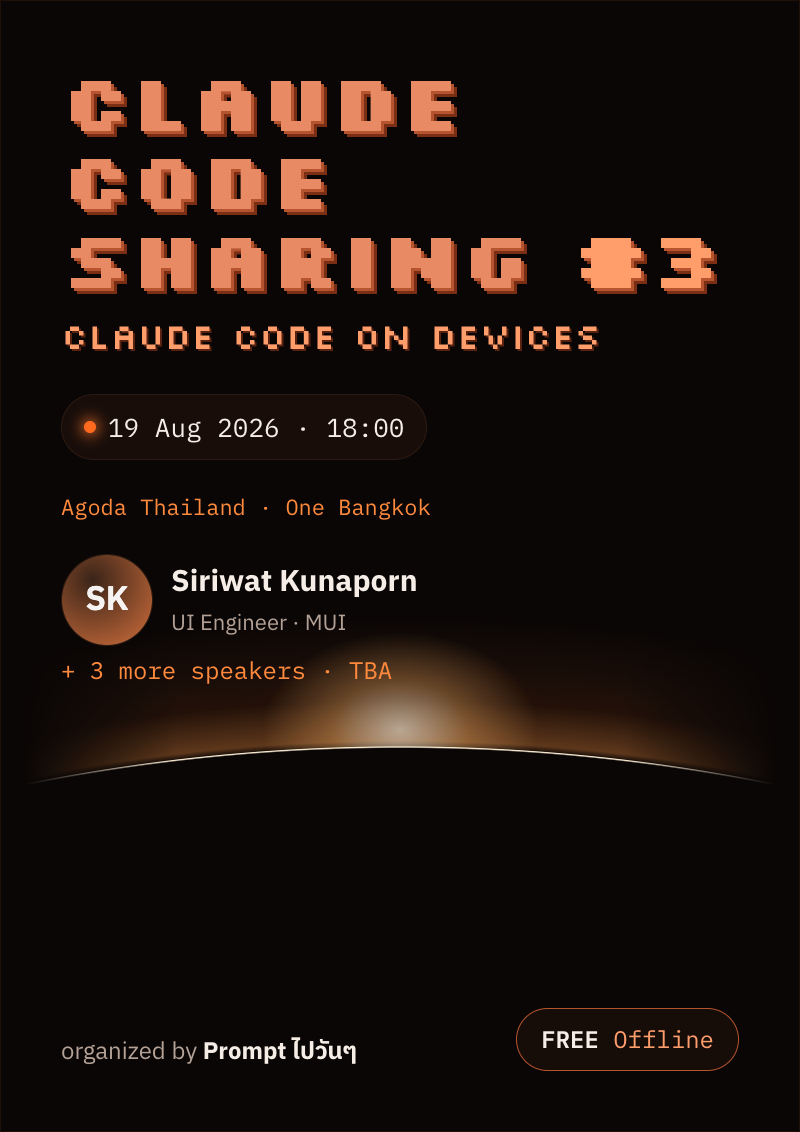
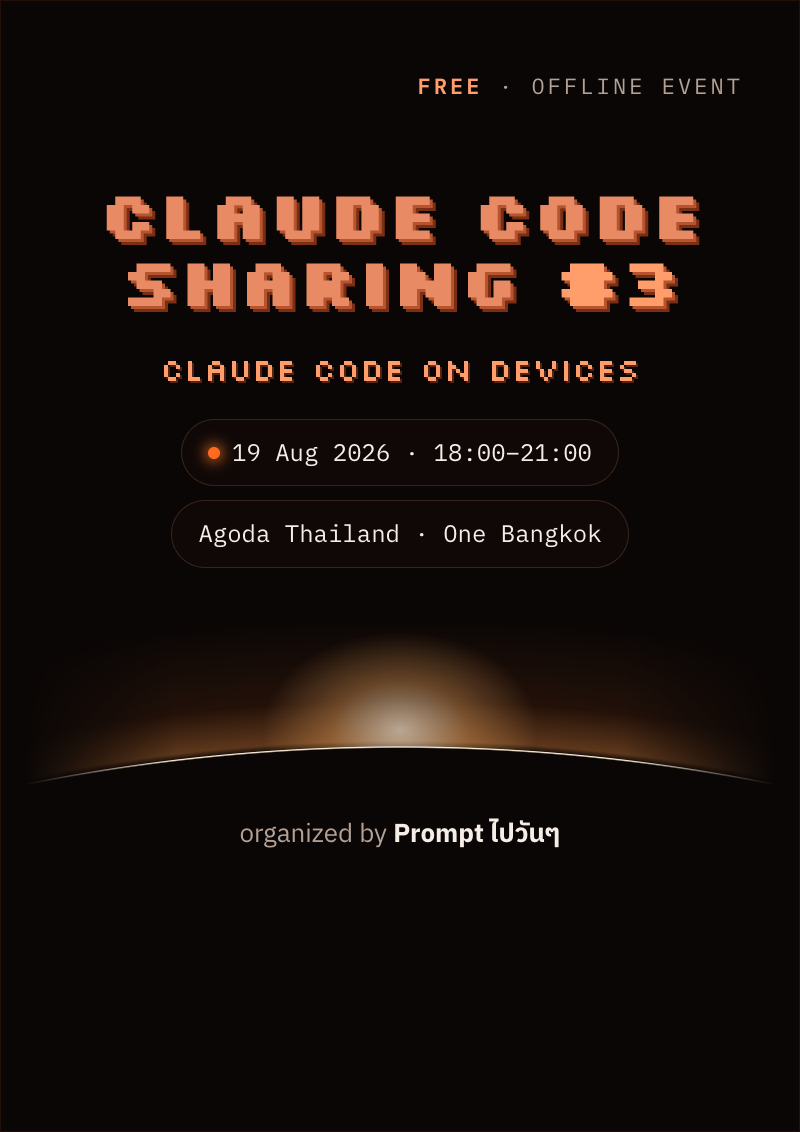
Posters mirror hero: centered layout, 2-line title, blurred chips, FREE top-right, organizer below curve; remove speakers

diff --git a/meetups/claude-code-3/styles.css b/meetups/claude-code-3/styles.css
@@ -118,52 +118,29 @@ a{color:inherit;text-decoration:none}
 .poster .stagelight,.poster .light{-webkit-mask-image:linear-gradient(90deg,transparent 3%,#000 22%,#000 78%,transparent 97%);mask-image:linear-gradient(90deg,transparent 3%,#000 22%,#000 78%,transparent 97%)}
 .poster .stagelight{position:absolute;inset:0;pointer-events:none;background:radial-gradient(var(--orbit-r) var(--orbit-r) at 50% calc(var(--line-y) + var(--orbit-r)),var(--void) calc(var(--orbit-r) - .5px),transparent var(--orbit-r)),radial-gradient(ellipse 24% 12% at 50% calc(var(--line-y) - 1.5%),rgba(255,246,228,.60),rgba(255,182,104,.32) 36%,transparent 72%),radial-gradient(var(--orbit-r) var(--orbit-r) at 50% calc(var(--line-y) + var(--orbit-r)),transparent calc(var(--orbit-r) - 1px),rgba(255,150,70,.34) calc(var(--orbit-r) + 6px),rgba(255,116,42,.10) calc(var(--orbit-r) + 46px),transparent calc(var(--orbit-r) + 130px))}
 .poster .light{position:absolute;inset:0;background:radial-gradient(var(--orbit-r) var(--orbit-r) at 50% calc(var(--line-y) + var(--orbit-r)),transparent calc(var(--orbit-r) - 1.6px),rgba(255,240,216,.95) calc(var(--orbit-r) - .3px),rgba(255,240,216,.95) var(--orbit-r),transparent calc(var(--orbit-r) + .9px))}
-.poster .pcontent{position:relative;z-index:2;height:100%;display:flex;flex-direction:column;padding:56px}
-.pk-eyebrow{font-family:"IBM Plex Mono",monospace;letter-spacing:.28em;font-size:19px;color:var(--coral)}
+.poster .pcontent{position:relative;z-index:2;height:100%}
+.pk-free{position:absolute;top:6%;right:7%;font-family:"IBM Plex Mono",monospace;letter-spacing:.14em;text-transform:uppercase;color:var(--ash)}
+.pk-free b{color:var(--flame);font-weight:600}
+.pk-top{position:absolute;left:0;right:0;top:0;height:var(--line-y);display:flex;flex-direction:column;align-items:center;justify-content:center;gap:26px;padding:0 6%;text-align:center}
+.pk-below{position:absolute;left:0;right:0;top:calc(var(--line-y) + 6%);text-align:center;color:var(--ash);font-family:"IBM Plex Sans Thai",sans-serif}
+.pk-below b{color:var(--bone)}
 .pk-title{font-family:"Silkscreen",monospace;font-weight:700;color:var(--coral);line-height:.98;white-space:nowrap;text-shadow:3px 3px 0 var(--coral-deep),6px 6px 0 var(--coral-shadow)}
 .pk-title .hash{color:var(--flame)}
 .pk-tag{font-family:"Silkscreen",monospace;color:var(--flame);text-shadow:2px 2px 0 rgba(122,46,20,.7)}
-.pk-date{font-family:"IBM Plex Mono",monospace;color:var(--bone);border:1px solid var(--line);background:rgba(30,16,10,.7);padding:12px 22px;border-radius:999px;display:inline-flex;align-items:center;gap:12px;width:max-content}
-.pk-date .dot{width:12px;height:12px;border-radius:50%;background:var(--glow);box-shadow:0 0 14px 3px rgba(255,120,45,.8)}
-.pk-spk{display:flex;align-items:center;gap:18px}
-.pk-av{border-radius:50%;flex:0 0 auto;border:1px solid var(--line)}
-.pk-name{font-weight:700;color:var(--bone)}
-.pk-role{color:var(--ash)}
-.pk-more{font-family:"IBM Plex Mono",monospace;color:var(--glow-soft)}
-.pk-badge{font-family:"IBM Plex Mono",monospace;color:var(--flame);border:1px solid var(--coral-deep);background:rgba(30,16,10,.6);padding:12px 24px;border-radius:999px;width:max-content}
-.pk-badge b{color:var(--bone)}
-.pk-orga{color:var(--ash)}.pk-orga b{color:var(--bone)}
-.pk-venue{font-family:"IBM Plex Mono",monospace;color:var(--glow-soft)}
-
-/* PORTRAIT mode */
-.poster[data-mode="portrait"] .pcontent{gap:30px;padding:60px}
-.poster[data-mode="portrait"] .pk-title{font-size:80px}
-.poster[data-mode="portrait"] .pk-tag{font-size:36px;margin-top:12px}
-.poster[data-mode="portrait"] .pk-date{font-size:26px}
-.poster[data-mode="portrait"] .pk-venue{font-size:22px}
-.poster[data-mode="portrait"] .pk-av{width:92px;height:92px}
-.poster[data-mode="portrait"] .pk-name{font-size:30px}
-.poster[data-mode="portrait"] .pk-role{font-size:22px}
-.poster[data-mode="portrait"] .pk-more{font-size:24px;margin-top:6px}
-.poster[data-mode="portrait"] .pk-foot{margin-top:auto;display:flex;justify-content:space-between;align-items:flex-end;gap:20px}
-.poster[data-mode="portrait"] .pk-orga{font-size:24px}
-.poster[data-mode="portrait"] .pk-badge{font-size:24px}
-
-/* LANDSCAPE mode */
-.poster[data-mode="landscape"] .pcontent{display:grid;grid-template-columns:1.08fr .92fr;gap:44px;padding:52px 60px;align-content:center}
-.poster[data-mode="landscape"] .col{display:flex;flex-direction:column;gap:20px;justify-content:center}
-.poster[data-mode="landscape"] .pk-title{font-size:56px}
-.poster[data-mode="landscape"] .pk-tag{font-size:28px;margin-top:8px}
-.poster[data-mode="landscape"] .pk-date{font-size:22px}
-.poster[data-mode="landscape"] .pk-venue{font-size:19px}
-.poster[data-mode="landscape"] .pk-av{width:64px;height:64px}
-.poster[data-mode="landscape"] .pk-name{font-size:24px}
-.poster[data-mode="landscape"] .pk-role{font-size:18px}
-.poster[data-mode="landscape"] .pk-more{font-size:20px}
-.poster[data-mode="landscape"] .pk-badge{font-size:19px}
-.poster[data-mode="landscape"] .pk-orga{font-size:19px}
+.pk-chips{display:flex;flex-wrap:wrap;gap:14px;justify-content:center}
+.pk-chip{display:inline-flex;align-items:center;gap:12px;font-family:"IBM Plex Mono",monospace;color:var(--bone);background:rgba(22,13,8,.42);border:1px solid rgba(255,180,120,.16);border-radius:999px;backdrop-filter:blur(10px);-webkit-backdrop-filter:blur(10px)}
+.pk-chip .dot{width:12px;height:12px;border-radius:50%;background:var(--glow);box-shadow:0 0 14px 3px rgba(255,120,45,.8)}
+.poster[data-mode="portrait"] .pk-free{font-size:22px}
+.poster[data-mode="portrait"] .pk-title{font-size:68px}
+.poster[data-mode="portrait"] .pk-tag{font-size:32px;margin-top:4px}
+.poster[data-mode="portrait"] .pk-chip{font-size:24px;padding:14px 26px}
+.poster[data-mode="portrait"] .pk-below{font-size:26px}
 .poster[data-mode="landscape"]{--line-y:80%}
-.poster[data-mode="landscape"] .pk-speakers{display:flex;flex-direction:column;gap:16px}
+.poster[data-mode="landscape"] .pk-free{font-size:19px}
+.poster[data-mode="landscape"] .pk-title{font-size:62px}
+.poster[data-mode="landscape"] .pk-tag{font-size:28px;margin-top:4px}
+.poster[data-mode="landscape"] .pk-chip{font-size:20px;padding:11px 20px}
+.poster[data-mode="landscape"] .pk-below{font-size:22px}
 
 /* footer */
 .site-foot{position:relative;overflow:hidden;border-top:1px solid var(--line);padding:clamp(3rem,7vw,4.5rem) var(--pad) 3rem;text-align:center}

diff --git a/meetups/claude-code-3/index.html b/meetups/claude-code-3/index.html
@@ -160,29 +160,18 @@
 <script>
 /* poster preview + size switch. Capture (PNG) is generated author-time; this is the on-page UI. */
 (function(){
-  var AV_P='width:92px;height:92px', AV_L='width:64px;height:64px';
-  function speakers(mode){
-    return '<div class="pk-speakers"><div class="pk-spk"><img class="pk-av" style="'+(mode==="portrait"?AV_P:AV_L)+'" src="assets/speakers/siriwat.svg" alt=""/>'
-      +'<div><div class="pk-name">Siriwat Kunaporn</div><div class="pk-role">UI Engineer · MUI</div></div></div>'
-      +'<div class="pk-more">+ 3 more speakers · TBA</div></div>';
-  }
-  var PORTRAIT=function(){return ''
-    +''
-    +'<div><div class="pk-title">CLAUDE<br>CODE<br>SHARING <span class="hash">#3</span></div><div class="pk-tag">Claude Code on Devices</div></div>'
-    +'<div class="pk-date"><span class="dot"></span>19 Aug 2026 · 18:00</div>'
-    +'<div class="pk-venue">Agoda Thailand · One Bangkok</div>'
-    +speakers("portrait")
-    +'<div class="pk-foot"><div class="pk-orga">organized by <b>Prompt ไปวันๆ</b></div><div class="pk-badge"><b>FREE</b> Offline</div></div>';};
-  var LANDSCAPE=function(){return ''
-    +'<div class="col">'
-      +''
-      +'<div class="pk-title">CLAUDE<br>CODE<br>SHARING <span class="hash">#3</span></div>'
+  var TEMPLATE=function(){return ''
+    +'<div class="pk-free"><b>FREE</b> · Offline event</div>'
+    +'<div class="pk-top">'
+      +'<div class="pk-title">CLAUDE CODE<br>SHARING <span class="hash">#3</span></div>'
       +'<div class="pk-tag">Claude Code on Devices</div>'
-      +'<div class="pk-date"><span class="dot"></span>19 Aug 2026 · 18:00</div>'
-      +'<div class="pk-venue">Agoda Thailand · One Bangkok</div>'
-      +'<div class="pk-badge"><b>FREE</b> Offline · Prompt ไปวันๆ</div>'
+      +'<div class="pk-chips">'
+        +'<span class="pk-chip"><span class="dot"></span>19 Aug 2026 · 18:00–21:00</span>'
+        +'<span class="pk-chip">Agoda Thailand · One Bangkok</span>'
+      +'</div>'
     +'</div>'
-    +'<div class="col">'+speakers("landscape")+'</div>';};
+    +'<div class="pk-below">organized by <b>Prompt ไปวันๆ</b></div>';};
+  var PORTRAIT=TEMPLATE, LANDSCAPE=TEMPLATE;
   var names={'1200x630':'Facebook Link','1200x1500':'Facebook Photo','800x1132':'Eventpop Poster','1200x628':'Eventpop Cover'};
   var art=document.getElementById('poster-art'),pc=document.getElementById('pcontent'),
       scaler=document.getElementById('scaler'),cap=document.getElementById('cap'),dl=document.getElementById('dl');
